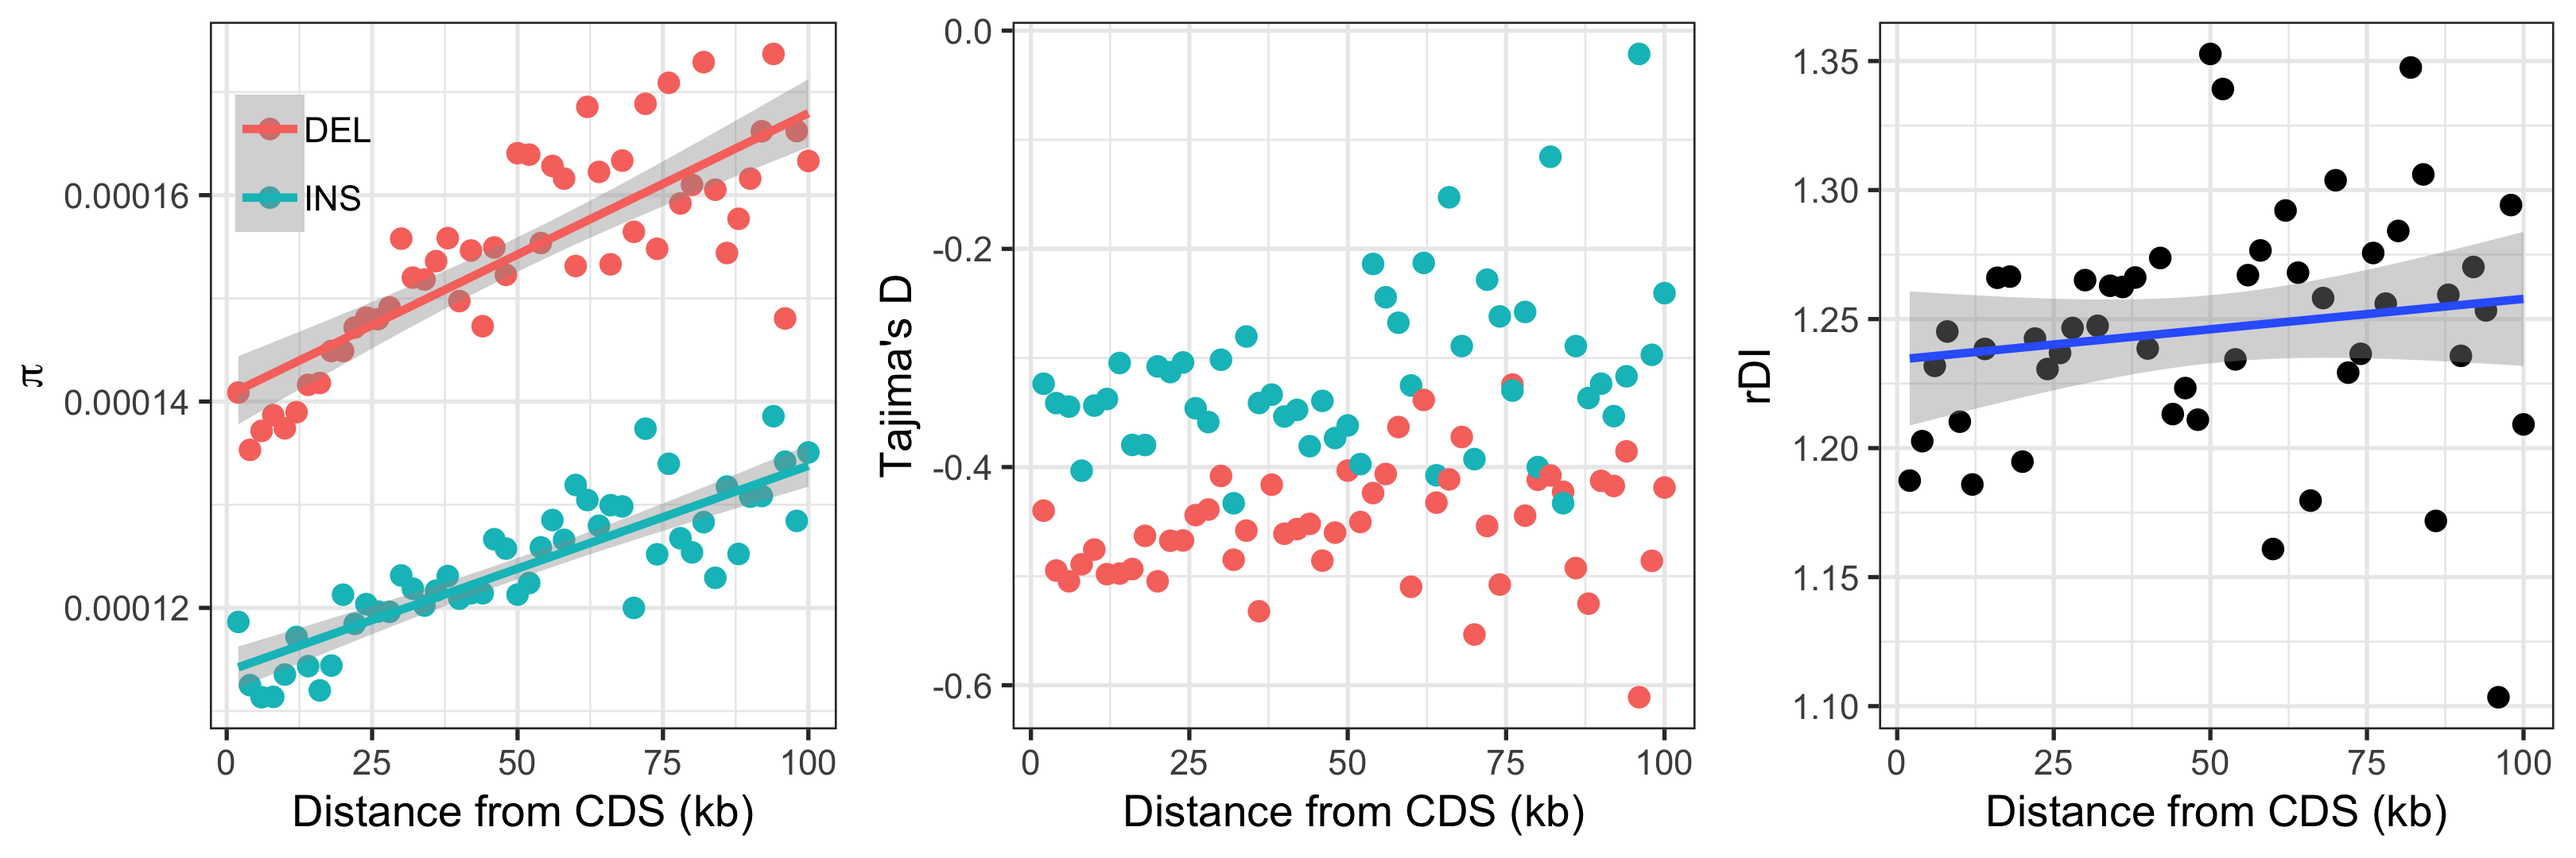
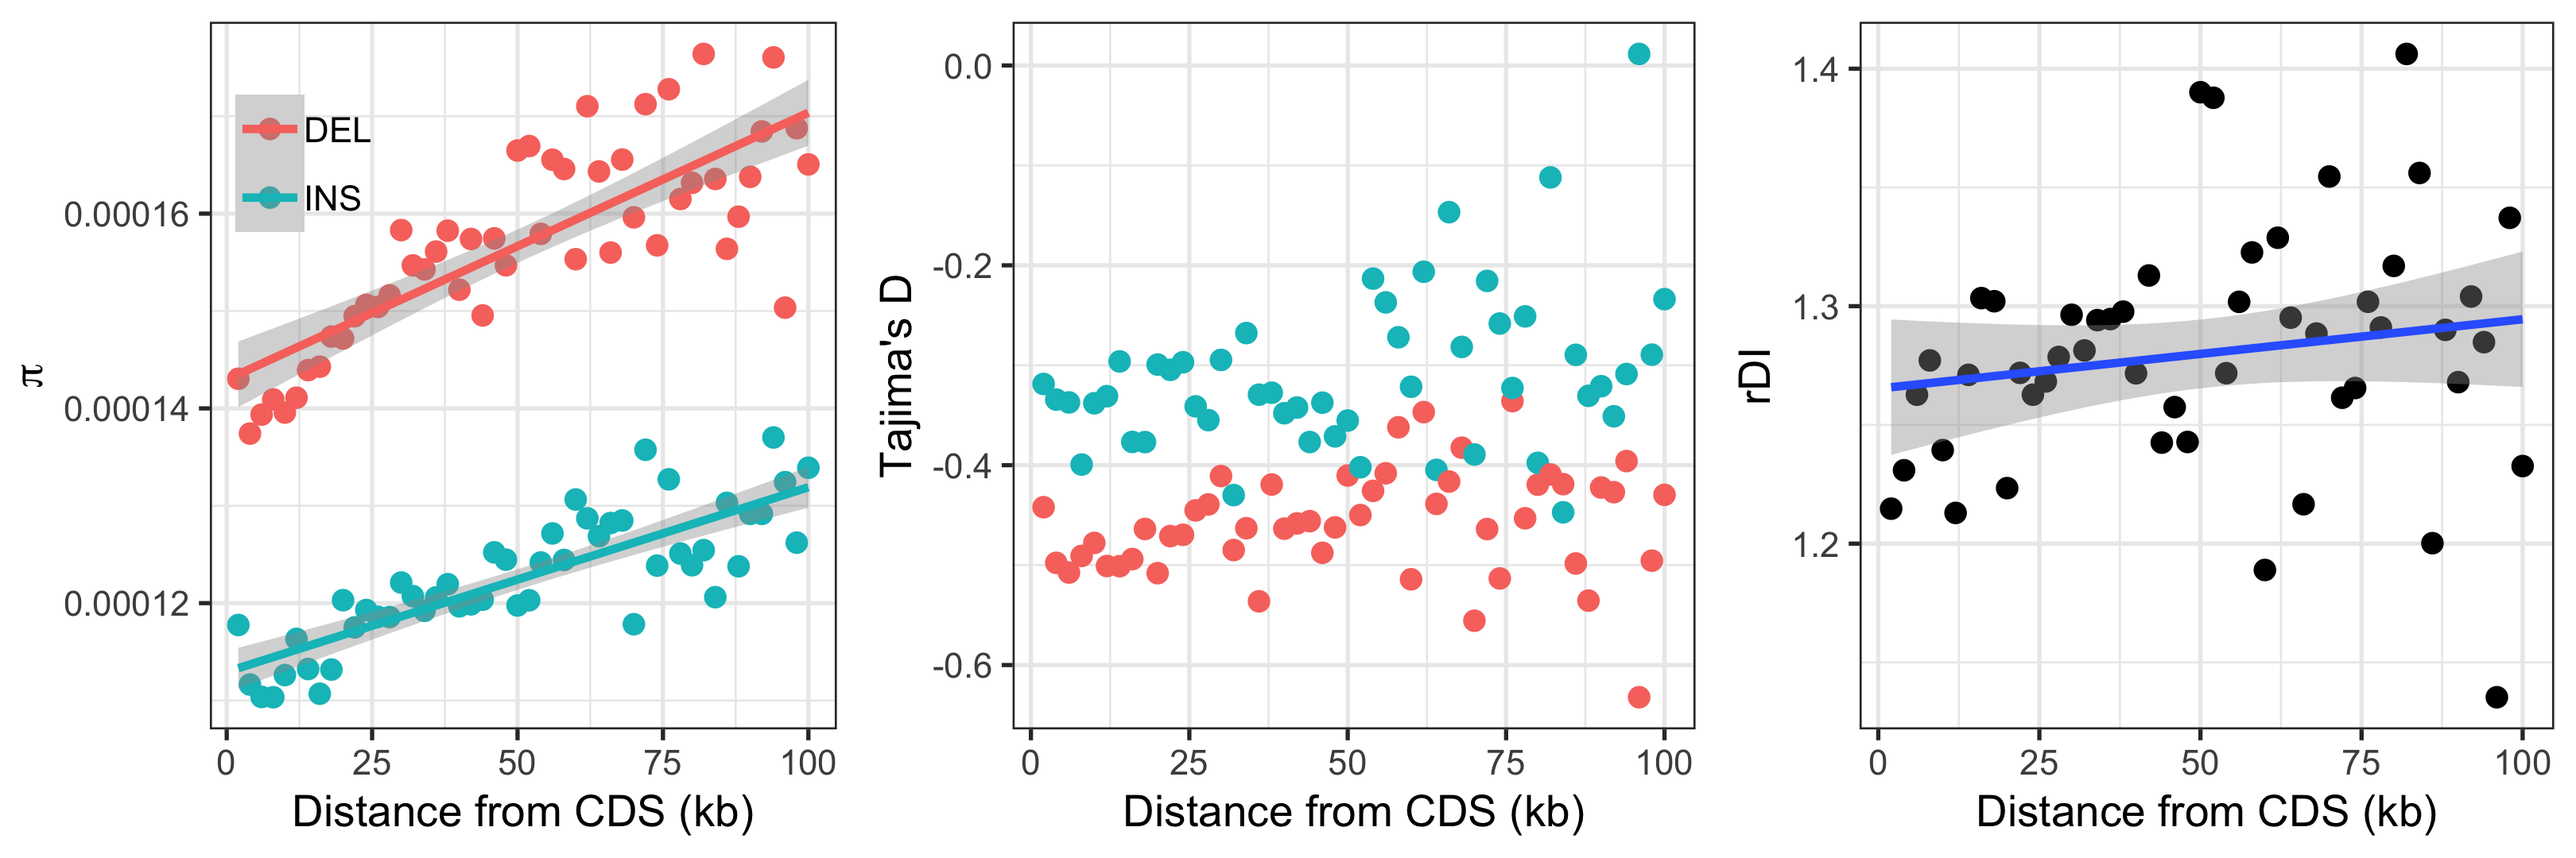
ran without correction

diff --git a/gene_proximity_analyses/README.md b/gene_proximity_analyses/README.md
@@ -40,6 +40,7 @@ Results: [theta plot](nc_exons_dist_dfe_theta.pdf), [proportion plot](nc_exons_d
 ```bash
 mkdir distance_bin_beds_2kb_from_cds_withsfs/
 ls $PWD/distance_bin_beds_2kb_from_cds/*gz | while read i; do ls $i | cut -d '.' -f 2 | tr '\n' '\t'; echo $i; done > 2kb_binids_beds.txt
+../summary_analyses/automate_bed_summary.py -indel_vcf /fastdata/bop15hjb/h_j_b/GT_data/BGI_BWA_GATK/Analysis_ready_data/final/bgi_10birds.filtered_indels.pol.anno.recomb.line.vcf.gz -snp_vcf /fastdata/bop15hjb/h_j_b/GT_data/BGI_BWA_GATK/Analysis_ready_data/final/bgi_10birds.filtered_snps.pol.anno.degen.line.vcf.gz -region_list 2kb_binids_beds.txt -out_pre distance_bin_beds_2kb_from_cds/gt_prox_summary_raw -evolgen
 ../summary_analyses/automate_bed_summary.py -indel_vcf /fastdata/bop15hjb/h_j_b/GT_data/BGI_BWA_GATK/Analysis_ready_data/final/bgi_10birds.filtered_indels.pol.anno.recomb.line.vcf.gz -snp_vcf /fastdata/bop15hjb/h_j_b/GT_data/BGI_BWA_GATK/Analysis_ready_data/final/bgi_10birds.filtered_snps.pol.anno.degen.line.vcf.gz -region_list 2kb_binids_beds.txt -correct_sfs -out_pre distance_bin_beds_2kb_from_cds_withsfs/gt_prox_summary -evolgen
 ../summary_analyses/automate_bed_callable.py -call_fa /fastdata/bop15hjb/GT_ref/bgi_10birds.callable.fa -chr_list /fastdata/bop15hjb/GT_ref/gt_autosomes.txt -region_list 2kb_binids_beds.txt -out_pre distance_bin_beds_2kb_from_cds_withsfs/gt_prox_call
 
@@ -53,6 +54,13 @@ head -n 1 gt_prox_call_bin1.txt > gt_prox_call.txt
 cat gt_prox_call*.txt | grep -v cat | sort -n -k1.4 >> gt_prox_call.txt 
 cp gt_prox_call.txt ../
 
+cd distance_bin_beds_2kb_from_cds/
+
+head -n 1 gt_prox_summary_raw_bin1_stats.txt > gt_prox_summary_stats_raw.txt 
+cat gt_prox_summary_raw_bin*_stats.txt | grep -v cat | sort -n -k1.4 >> gt_prox_summary_stats_raw.txt
+cp gt_prox_summary_stats_raw.txt ../
+
+
 cd ..
 Rscript window_plots_sum_stats.R
 ```
@@ -61,9 +69,8 @@ Rscript window_plots_sum_stats.R
 
 | x (x vs distance) | Spearman's rho | p-value |
 |:------------------|:--------------:|:-------:|
-|ins_theta          | 0.8604562       | 2.2e-16 |
-|del_theta          | 0.7958223       | 2.2e-16  |
-|rdi                | 0.08052821     | 0.5351  |
+|ins_theta          | 0.8410564      | 2.2e-16 |
+|del_theta          | 0.7878511      | 2.2e-16 |
 
 ### Looking at how far the relationship persists
 
